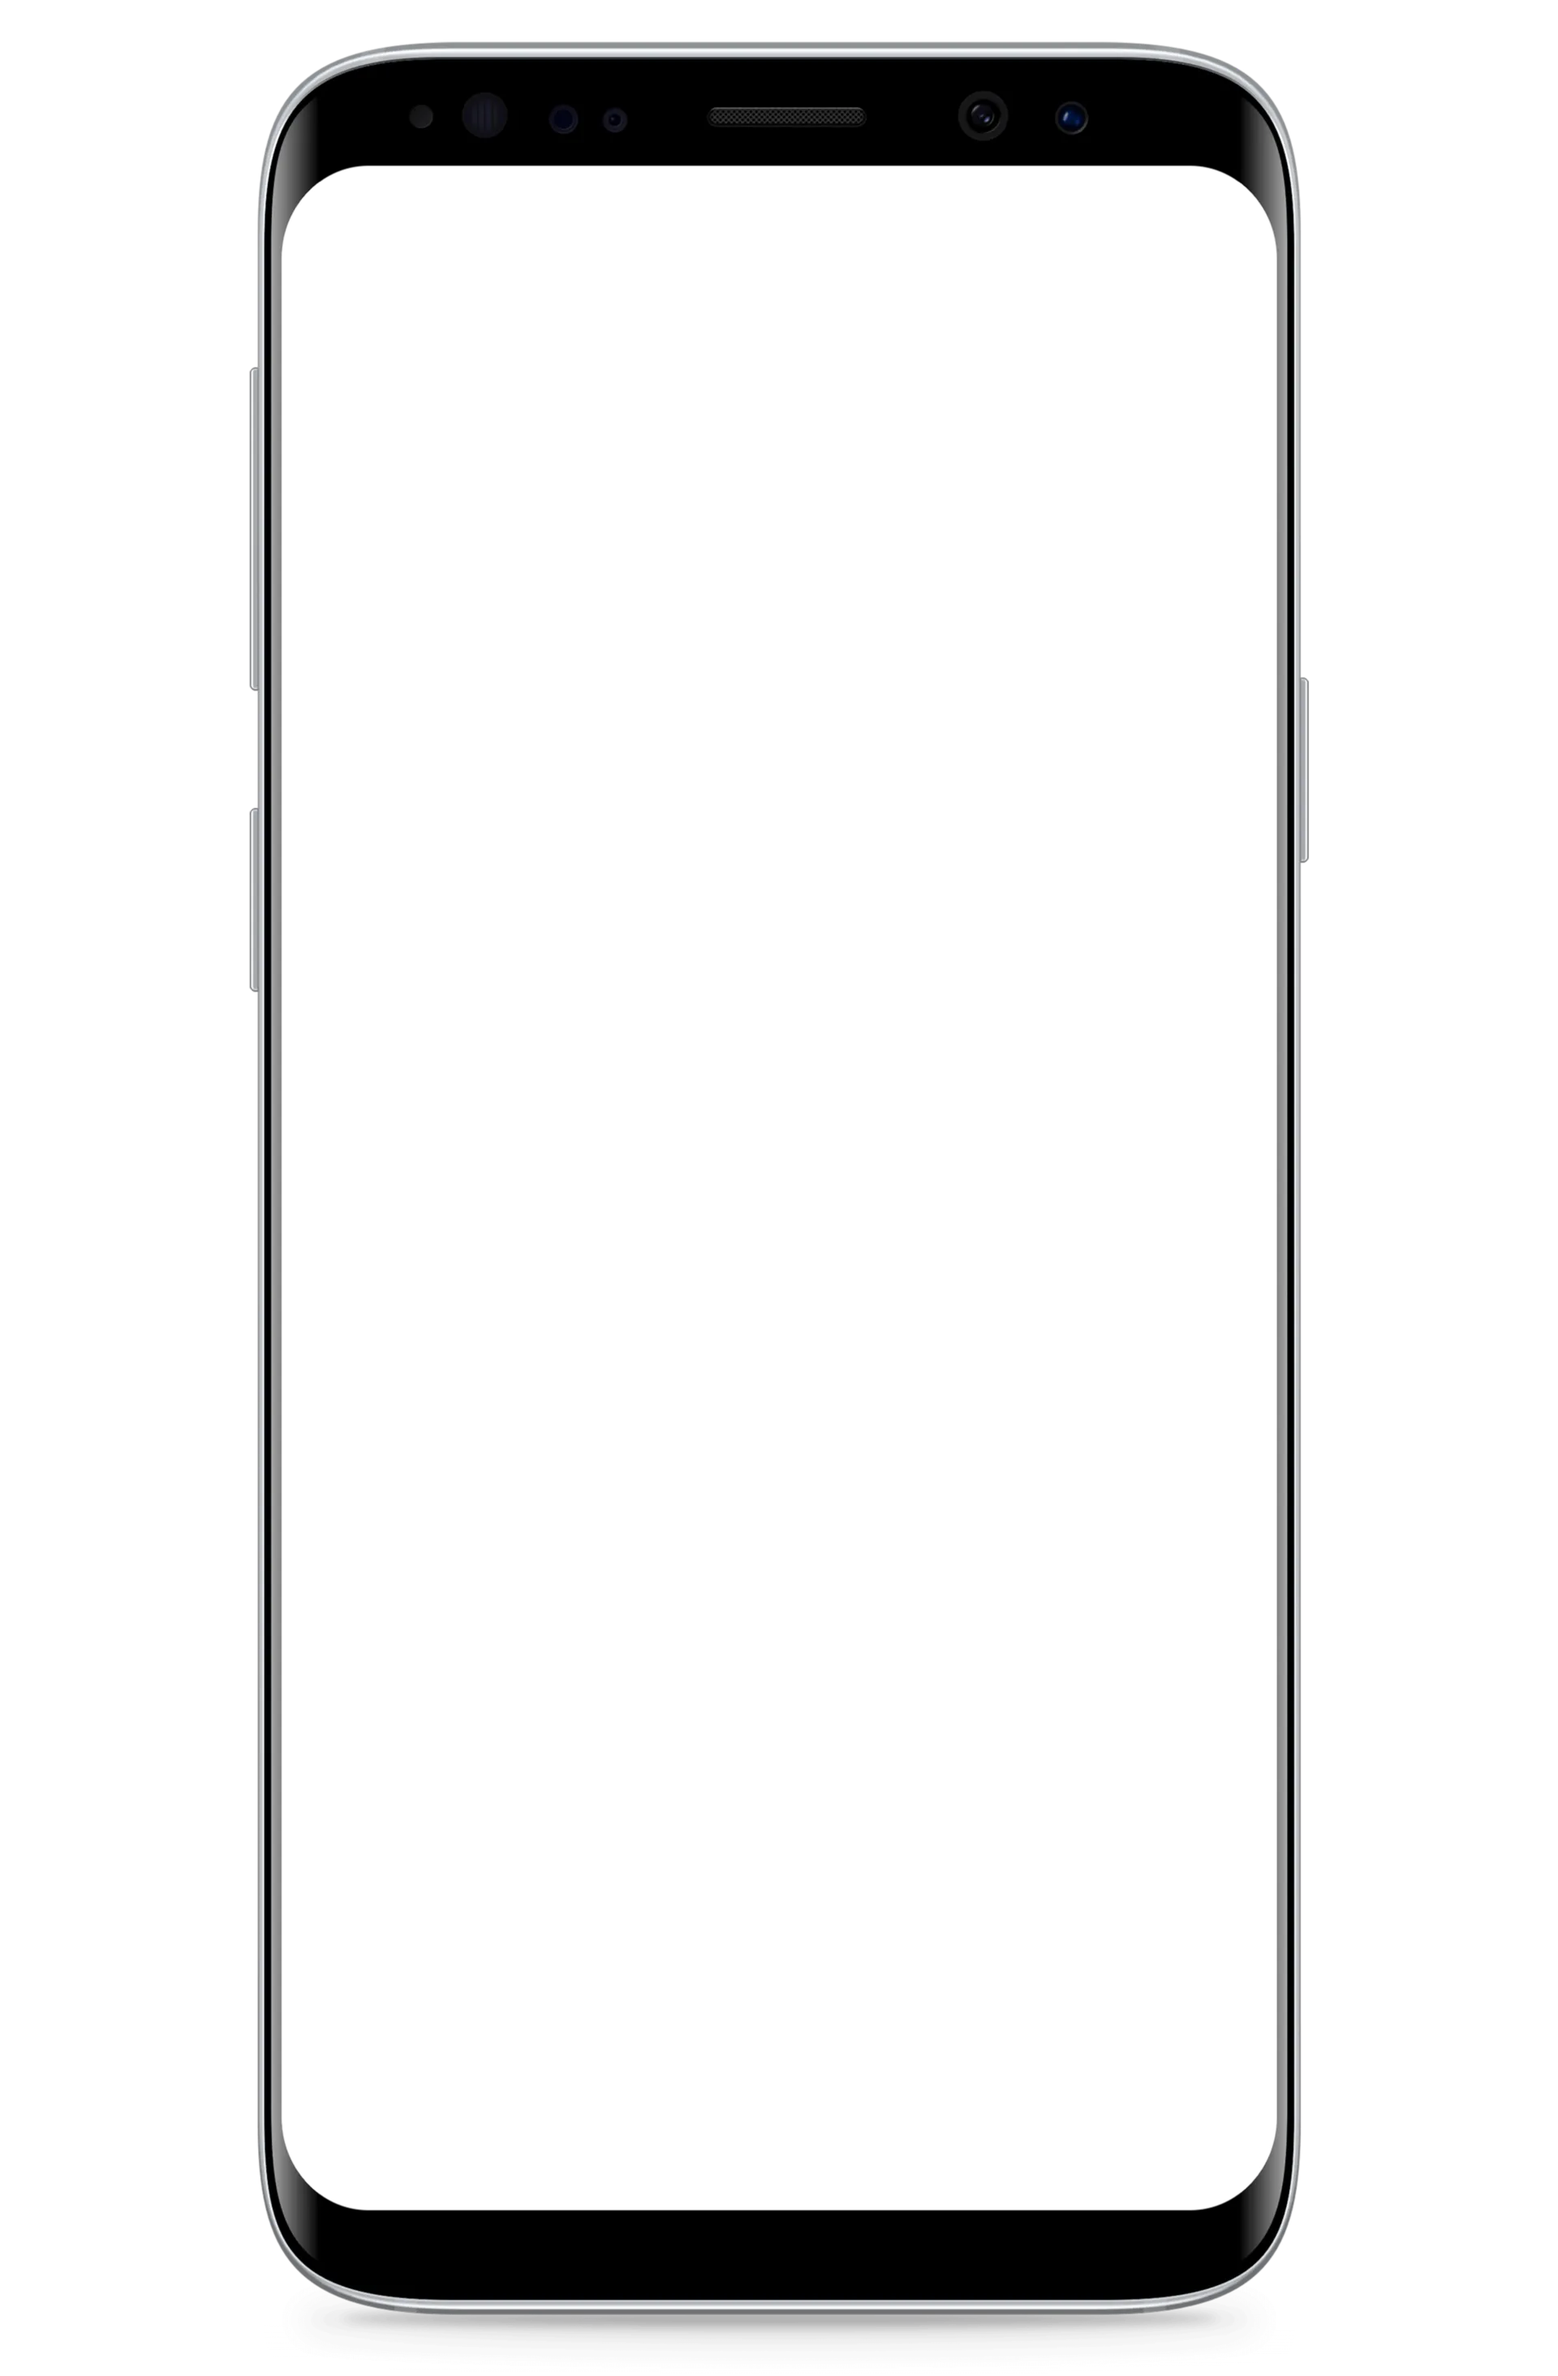
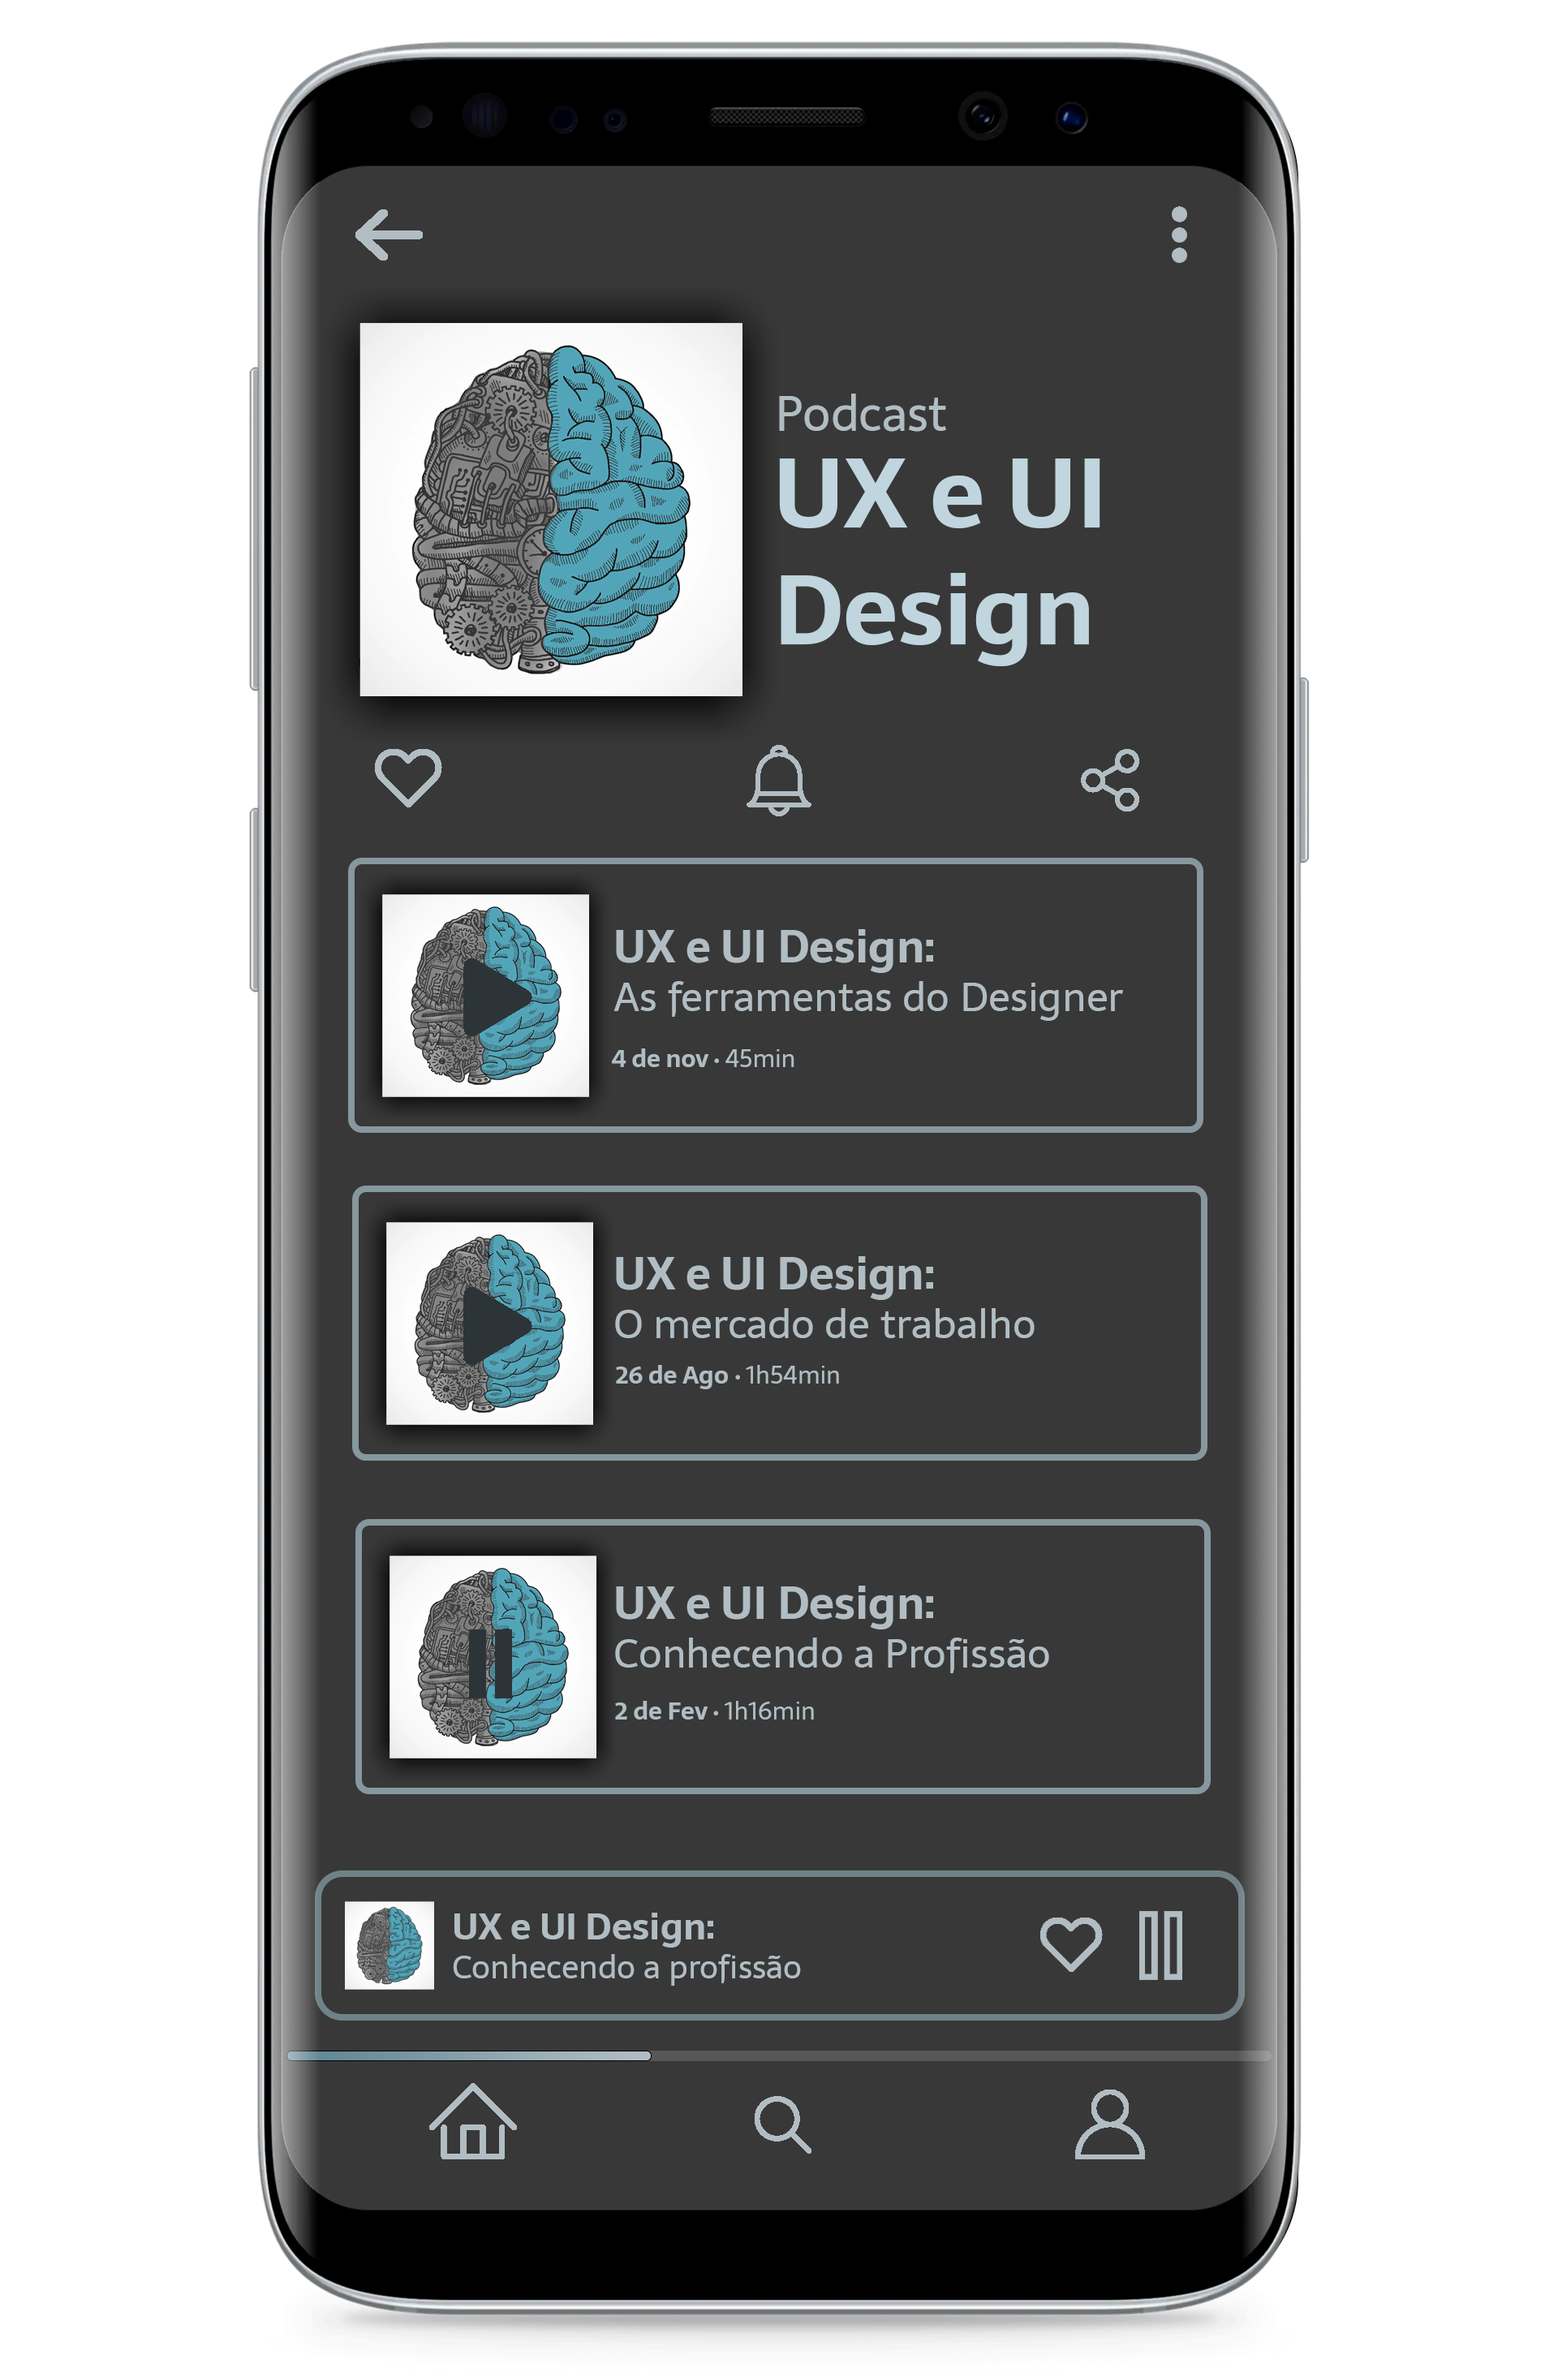
mockup

diff --git a/styles/style.css b/styles/style.css
@@ -52,26 +52,26 @@
     font-weight: 700;
     color: #C3E0EC;
   }
-    header{
-      height: 100vh;
-      width: 100vw;
+  header{
+    height: 100vh;
+    width: 100vw;
     }
-    .title{
-      font-size: 60px;
-       text-align: center;
-    }
-    .mobile{
-      display: block;
-      max-width: 80%;
-      height: auto;
-    }
-    p{
-      font-family: 'Sarala';
-      text-align: justify;
-      font-weight: 400;
-      font-size: 15;
-      color: #E6F2F8; 
-    }
+  .title{
+    font-size: 60px;
+     text-align: center;
+  }
+  .mobile{
+    display: block;
+    max-width: 80%;
+    height: auto;
+  }
+  p{
+    font-family: 'Sarala';
+    text-align: justify;
+    font-weight: 400;
+    font-size: 15;
+    color: #E6F2F8; 
+  }
 
   .line{
     width: 100%;
@@ -85,134 +85,133 @@
     line-height: 30px;
     color: #252525;
   }
-.navbar{
+  .navbar{
     height: 8vh;
     justify-content:center;
     background-color: #b2ccd7ec
-}
-.sub{
-  font-family: 'Sarala';
-  font-style: normal;
-  font-weight: 700;
-  font-size: 30px;
-  line-height: 65px;
-  color: #CFE6F0;
-}
-.subc{
-
+  } 
+  .sub{
+    font-family: 'Sarala';
+    font-style: normal;
     font-weight: 700;
     font-size: 30px;
     line-height: 65px;
     color: #CFE6F0;
-  text-align: center;
-}
-#video{
-  background-color:  #2A2A2A;
-}
-#career{
-  background-color: #252525;
-}
-#market{
-  background-color: #2A2A2A;
-}
-.imgs{
-  width: 70%;
-  display: block;
-  margin-left: auto;
-  margin-right: auto;
-}
-.imgxs{
-  width: 40%;
-}
-.imgb{
-  width: 50%;
-  display: block;
-  margin-left: auto;
-  margin-right: auto;
-}
-.imgxb{
-  width: 40%;
-  display: block;
-  margin-left: auto;
-  margin-right: auto;
-}
-#footer{
-  bottom: 0;
-  width: 100%;
-  height: 22rem;
-  background: rgb(162,190,201);
-  background: linear-gradient(0deg, rgb(95, 127, 140) 0%, rgb(168, 188, 197) 100%);
-}
-.icons{
-  text-align: center;
-  vertical-align: middle;
-  height: 7rem;
-}
-.icon{
-  padding: 10px;
-  width: 60px;
-}
-.videoramon{
-  width: 95%;
-  height: 90%;
-}
-.div-video{
-  height: 500px;
-} 
-.centerheadertext{
-  margin-left: auto;
-  margin-right: 0px;
-  width: 90%;
-}
-
-.titulo {
-  @include font-size(4rem);
-}
-.titulo {
-  font-size: calc(1.525rem + 3.3vw);
-}
-
-@media (min-width: 1200px) {
-  .title {
-    font-size: 4rem;
   }
-}
-
-
-.sub-title {
-  @include font-size(1rem);
-}
-.sub-title {
-  font-size: calc(0.38125rem + 0.825vw);
-}
-
-@media (min-width: 1200px) {
-  .title {
-    font-size: 4rem;
+  .subc{
+    font-weight: 700;
+    font-size: 30px;
+    line-height: 65px;
+    color: #CFE6F0;
+    text-align: center;
   }
-}
+  #video{
+    background-color:  #2A2A2A;
+  }
+  #career{
+    background-color: #252525;
+  }
+  #market{
+    background-color: #2A2A2A;
+  }
+  .imgs{
+    width: 70%;
+    display: block;
+    margin-left: auto;
+    margin-right: auto;
+  }
+  .imgxs{
+    width: 40%;
+  }
+  .imgb{
+    width: 50%;
+    display: block;
+    margin-left: auto;
+    margin-right: auto;
+  }
+  .imgxb{
+    width: 40%;
+    display: block;
+    margin-left: auto;
+    margin-right: auto;
+  }
+  #footer{
+    bottom: 0;
+    width: 100%;
+    height: 22rem;
+    background: rgb(162,190,201);
+    background: linear-gradient(0deg, rgb(95, 127, 140) 0%, rgb(168, 188, 197) 100%);
+  }
+  .icons{
+    text-align: center;
+    vertical-align: middle;
+    height: 7rem;
+  }
+  .icon{
+    padding: 10px;
+    width: 60px;
+  }
+  .videoramon{
+    width: 95%;
+    height: 90%;
+  }
+  .div-video{
+    height: 500px;
+  } 
+  .centerheadertext{
+    margin-left: auto;
+    margin-right: 0px;
+    width: 90%;
+  }
 
-.graph{
-  display: block;
-  margin-left: auto;
-  margin-right: auto;
-}
+  .titulo {
+    @include font-size(4rem);
+  }
+  .titulo {
+    font-size: calc(1.525rem + 3.3vw);
+  }
 
-.footer-title{
-  font-family: 'Sarala';
-  font-size: 40px;
+  @media (min-width: 1200px) {
+    .title {
+      font-size: 4rem;
+    }
+  }
+
+
+  .sub-title {
+    @include font-size(1rem);
+  }
+  .sub-title {
+    font-size: calc(0.38125rem + 0.825vw);
+  }
+
+  @media (min-width: 1200px) {
+    .title {
+      font-size: 4rem;
+    }
+  }
+
+  .graph{
+    display: block;
+    margin-left: auto;
+    margin-right: auto;
+  }
+
+  .footer-title{
+    font-family: 'Sarala';
+    font-size: 40px;
     line-height: 65px;
     color: #252525;
     text-align: center;
-}
-.footer-text{
-  font-size: 25px;
+  }
+  .footer-text{
+    font-size: 25px;
     color: #252525;
     text-align: center;
-}
-.footer-textsm{
-  font-size: 20px;
-  font-weight: 700;
+  }
+  .footer-textsm{
+    font-size: 20px;
+    font-weight: 700;
     color: #252525;
     text-align: center;
-}
+  }

diff --git a/index.html b/index.html
@@ -23,8 +23,10 @@
         </p>
       </div>
     </div>
-      <div class="mockup col-lg-5 fix_height d-flex align-items-center justify-content-center">
-        <img src="img/mobile-mockup.png" class="mobile">
+      <div class="col-lg-5 fix_height d-flex align-items-center justify-content-center">
+        <div id="mockup">
+          <img class="mobile" onmouseover="this.src='img/mobile-mockup.png'" onmouseout="this.src='img/sketch.png'"  src="img/sketch.png"> 
+        </div>
       </div>
   </header>
 
@@ -34,20 +36,20 @@
     <div class="container">
     <div class="row justify-content-center">
       <div class="col-auto">
-        <a class="nav-link active" aria-current="page" href="#">A Profissão</a>
+        <a class="nav-link active" aria-current="page" href="#profession">A Profissão</a>
       </div>
       <div class="col-auto">
-        <a class="nav-link" href="#">Como Ingressar</a>
+        <a class="nav-link" href="#market">Como Ingressar</a>
       </div>
       <div class="col-auto">
-        <a class="nav-link" href="#">O Curso</a>
+        <a class="nav-link" href="#career">O Curso</a>
       </div>
     </div></div>
   </nav>
 
 
   <content>
-      <div class="row d-flex justify-content-center">
+      <div class="row d-flex justify-content-center" id="profession">
         <div class="col-md-8">
           <div id="discover">
            <h1 class="title mb-5 mt-5">Conheça o UX e UI</h1>
